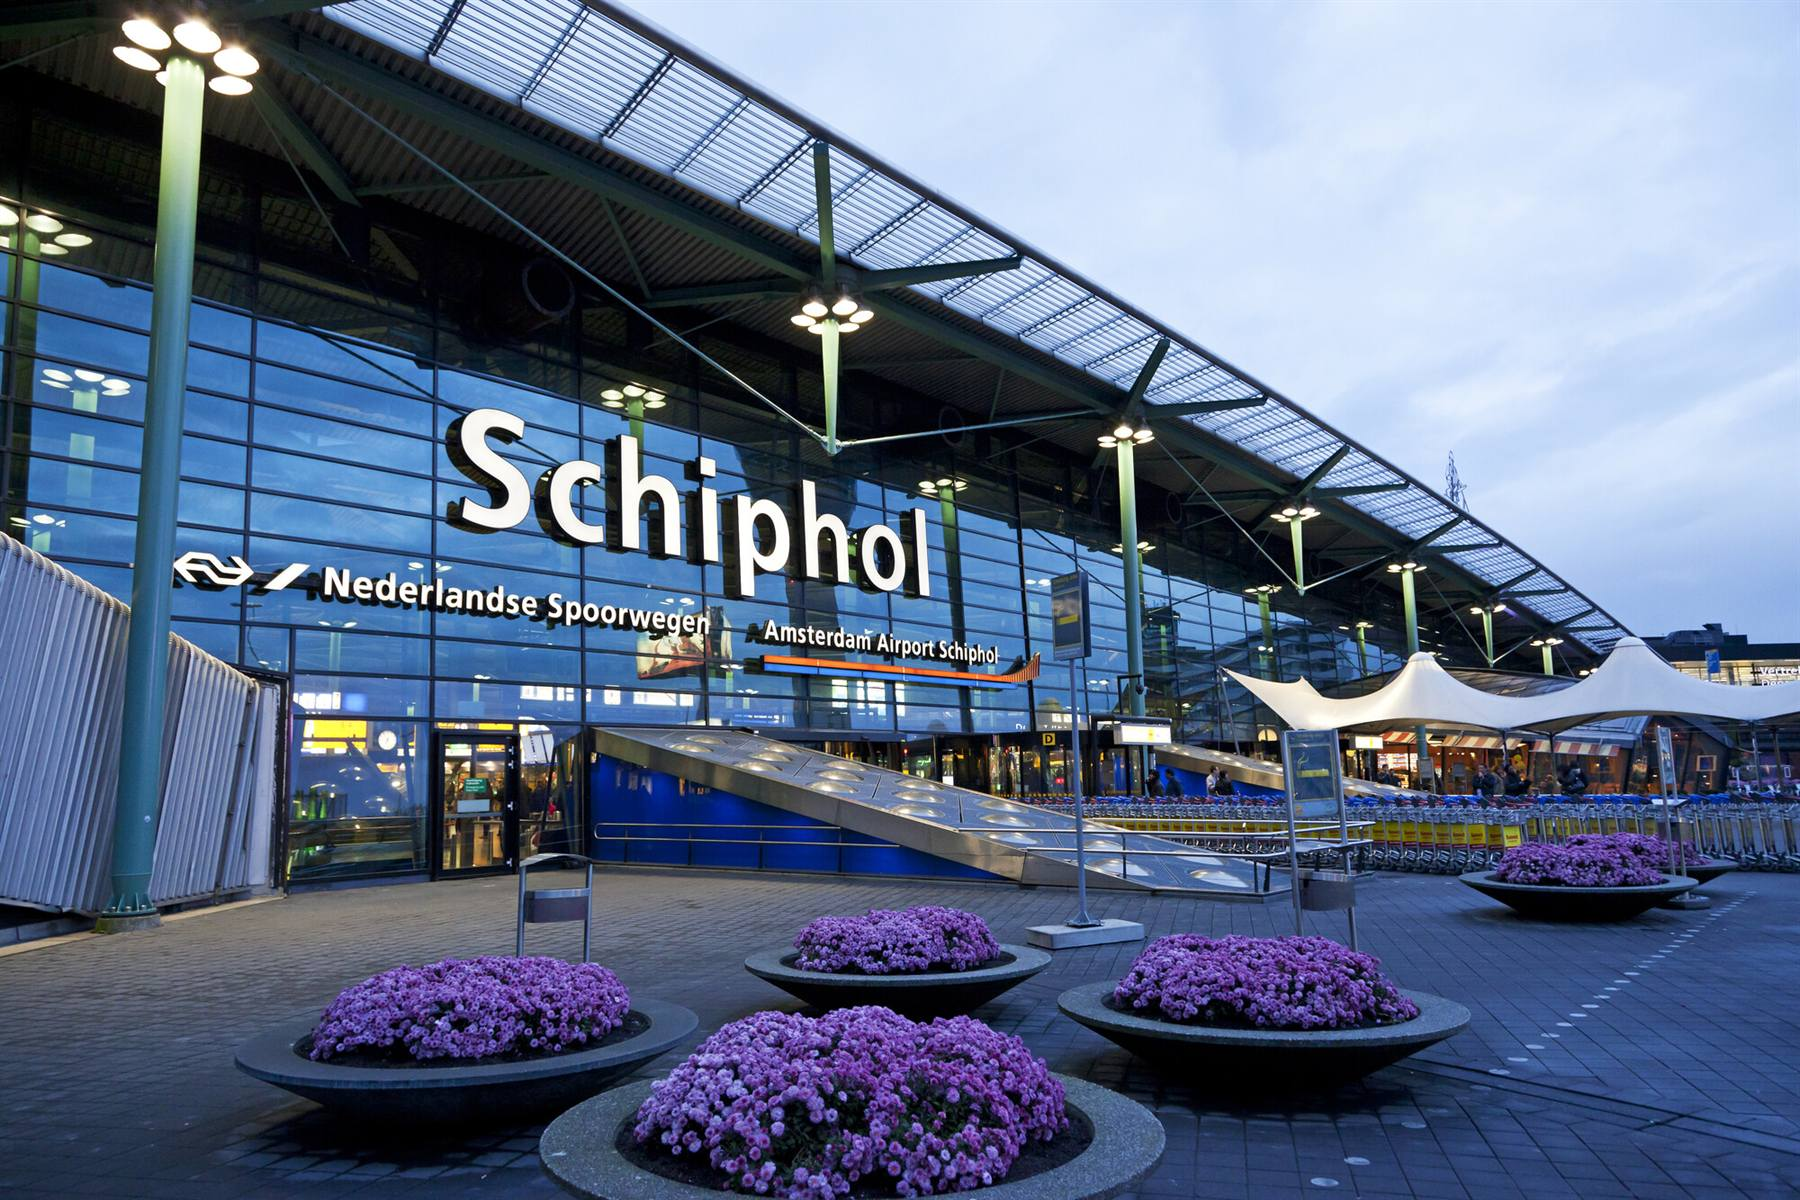
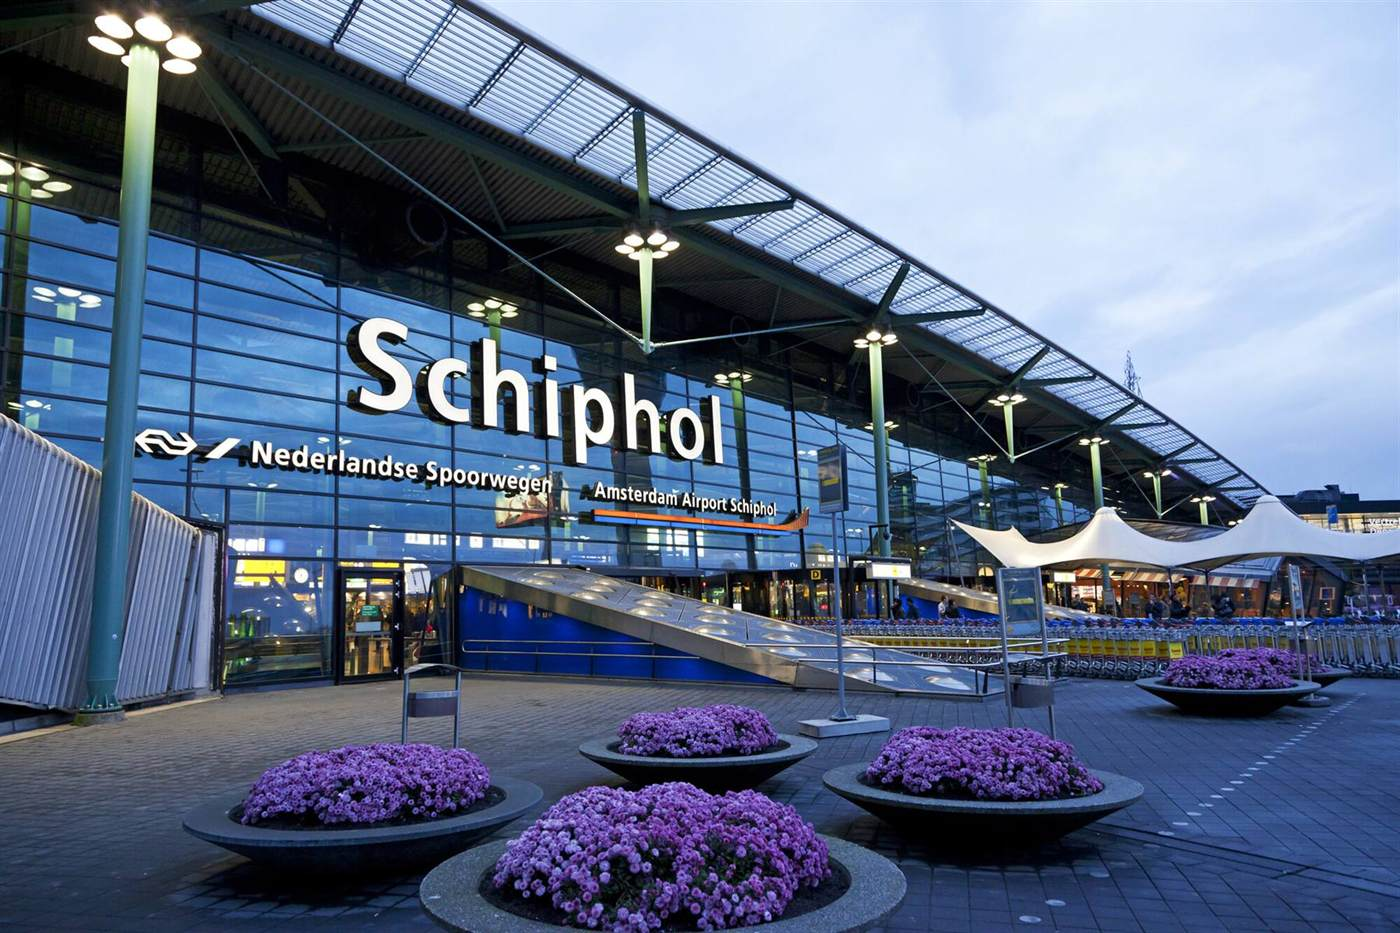
404 page, lighter photos, depth behind the page, steps that fade

Changed region(s): [[0.5221, 0.5284, 0.5529, 0.5595]]

diff --git a/404.html b/404.html
@@ -1,0 +1,230 @@
+<!DOCTYPE html>
+<html lang="en" dir="ltr">
+<head>
+<meta charset="utf-8">
+<meta name="viewport" content="width=device-width, initial-scale=1">
+<title>Page not found — Taxi Service Go Aktaa</title>
+<meta name="description" content="That page does not exist. Book a metered taxi to or from Amsterdam Schiphol.">
+
+
+<!-- Same page in three languages, switched in the browser. -->
+<link rel="alternate" hreflang="en" href="https://taxiservicegoaktaa.nl/">
+<link rel="alternate" hreflang="nl" href="https://taxiservicegoaktaa.nl/">
+<link rel="alternate" hreflang="ar" href="https://taxiservicegoaktaa.nl/">
+<link rel="alternate" hreflang="x-default" href="https://taxiservicegoaktaa.nl/">
+
+<link rel="icon" href="favicon.svg" type="image/svg+xml">
+<link rel="apple-touch-icon" href="favicon.svg">
+<meta name="theme-color" content="#153A8A">
+
+<!-- What a shared link looks like in WhatsApp, Facebook, LinkedIn. -->
+
+
+
+
+
+
+
+
+
+
+
+
+
+
+
+
+<!-- Fonts served from this domain. Loading them from Google would hand
+     every visitor's IP address to Google, which a German court ruled a
+     GDPR breach in 2022, and costs two extra connections per visit. -->
+<link rel="preload" href="fonts/Archivo-700-latin.woff2" as="font" type="font/woff2" crossorigin>
+<link rel="preload" href="fonts/IBMPlexSans-400-latin.woff2" as="font" type="font/woff2" crossorigin>
+<link rel="stylesheet" href="fonts.css">
+<meta name="robots" content="noindex">
+<link rel="stylesheet" href="styles.css">
+
+<!-- Tells Google what this business is, so the phone number and hours
+     can appear in search. Address and rating are deliberately absent:
+     both must be real, and one is not known yet while the other is empty. -->
+
+
+</head>
+<body>
+
+<a class="skip" href="#lost" data-i18n="skip">Skip to booking</a>
+
+<header class="masthead">
+  <div class="wrap masthead__top">
+
+    <!-- LOGO SLOT ────────────────────────────────────────────────
+         Drop your logo file into this folder, then replace the two
+         <span> lines below with one line:
+
+           <img class="brand__logo" src="logo.svg" alt="Taxi Service Go Aktaa">
+
+         SVG is best; a PNG at least 400px wide also works. The CSS
+         already sizes it, so nothing else needs changing.
+         ─────────────────────────────────────────────────────────── -->
+    <a class="brand" href="#top">
+      <svg class="brand__mark" viewBox="0 0 196 82" role="img" aria-label="TTAxi">
+        <title>TTAxi</title>
+        <!-- Roof light: the amber lamp already used across the site, sitting
+             on the two T's the way it sits on a car. -->
+        <path d="M24 18 L29 5 H59 L64 18 Z" fill="#F5B02E"/>
+        <rect x="22" y="16" width="44" height="6" rx="3" fill="#D8961F"/>
+        <!-- Wordmark -->
+        <text class="brand__word" x="8" y="70">TTAxi</text>
+        <!-- Pick-up to drop-off, straight and metered -->
+        <g fill="#153A8A">
+          <circle cx="152" cy="52" r="4.5"/>
+          <path d="M152 52 H178" stroke="#153A8A" stroke-width="3.5" stroke-linecap="round"/>
+          <path d="M177 45 L190 52 L177 59 Z"/>
+        </g>
+      </svg>
+      <span class="brand__sub" data-i18n="brand.sub">Schiphol transfers</span>
+    </a>
+
+    <div class="masthead__reach">
+      <a class="reach" href="tel:+31613331111">
+        <span class="reach__ico" aria-hidden="true">
+          <svg viewBox="0 0 16 16" fill="none" stroke="currentColor" stroke-width="1.5"><path d="M3 2h3l1.5 3.5-2 1.5a8 8 0 0 0 3.5 3.5l1.5-2L14 10v3a1 1 0 0 1-1 1A11 11 0 0 1 2 3a1 1 0 0 1 1-1z"/></svg>
+        </span>
+        <span class="reach__text">
+          <strong dir="ltr">+31 6 1333 1111</strong>
+          <span data-i18n="topbar.call">Call us now</span>
+        </span>
+      </a>
+
+      <span class="masthead__rule" aria-hidden="true"></span>
+
+      <a class="reach reach--mail" href="mailto:taxiservice.goaktaa@gmail.com">
+        <span class="reach__ico" aria-hidden="true">
+          <svg viewBox="0 0 16 16" fill="none" stroke="currentColor" stroke-width="1.5"><rect x="1.5" y="3.5" width="13" height="9" rx="1"/><path d="M1.5 4.5 8 9l6.5-4.5"/></svg>
+        </span>
+        <span class="reach__text">
+          <strong dir="ltr">taxiservice.goaktaa@gmail.com</strong>
+          <span data-i18n="topbar.mail">Mail us now</span>
+        </span>
+      </a>
+    </div>
+
+    <div class="lang" role="group" aria-label="Language" data-i18n-aria="lang.label">
+      <button type="button" class="lang__b" data-lang="en" aria-pressed="true" data-i18n-aria="lang.en">
+        <svg class="flag" viewBox="0 0 60 30" preserveAspectRatio="xMidYMid slice" aria-hidden="true" focusable="false">
+          <clipPath id="ukClip"><path d="M30 15h30v15zv15H0zH0V0zV0h30z"/></clipPath>
+          <rect width="60" height="30" fill="#012169"/>
+          <path d="M0 0l60 30M60 0L0 30" stroke="#fff" stroke-width="6"/>
+          <path d="M0 0l60 30M60 0L0 30" clip-path="url(#ukClip)" stroke="#C8102E" stroke-width="4"/>
+          <path d="M30 0v30M0 15h60" stroke="#fff" stroke-width="10"/>
+          <path d="M30 0v30M0 15h60" stroke="#C8102E" stroke-width="6"/>
+        </svg>
+      </button>
+      <button type="button" class="lang__b" data-lang="nl" aria-pressed="false" data-i18n-aria="lang.nl">
+        <svg class="flag" viewBox="0 0 60 30" preserveAspectRatio="xMidYMid slice" aria-hidden="true" focusable="false">
+          <rect width="60" height="10" fill="#AE1C28"/>
+          <rect y="10" width="60" height="10" fill="#fff"/>
+          <rect y="20" width="60" height="10" fill="#21468B"/>
+        </svg>
+      </button>
+      <!-- The shahada is suggested with plain bars rather than drawn as
+           letterforms: at this size hand-made script would come out garbled,
+           and garbled scripture is worse than an honest simplification. -->
+      <button type="button" class="lang__b" data-lang="ar" aria-pressed="false" data-i18n-aria="lang.ar">
+        <!-- A real flag file: the shahada is calligraphy, and hand-drawing it
+             at this size only ever produced a green smudge. -->
+        <img class="flag" src="flag-sa.png" alt="" width="250" height="250">
+      </button>
+    </div>
+  </div>
+</header>
+
+<nav class="mainnav" id="mainnav" aria-label="Sections">
+  <div class="wrap mainnav__inner">
+    <!-- Phones get a button instead of a row that runs off the screen. -->
+    <button class="navtoggle" id="navToggle" type="button"
+            aria-expanded="false" aria-controls="navLinks" data-i18n-aria="nav.menu">
+      <span class="navtoggle__bars" aria-hidden="true"></span>
+      <span data-i18n="nav.menu">Menu</span>
+    </button>
+    <div class="mainnav__links" id="navLinks">
+      <a href="#top" class="is-here" data-i18n="nav.home">Home</a>
+    <a href="#book" data-i18n="nav.cta">Book a taxi</a>
+    <a href="#routes" data-i18n="nav.routes">Where we drive</a>
+    <a href="#fare" data-i18n="nav.fare">The fare</a>
+    <a href="#reviews" data-i18n="nav.reviews">Reviews</a>
+    <a href="#meet" data-i18n="nav.meet">Meeting point</a>
+    </div>
+  </div>
+</nav>
+
+<main id="lost">
+  <section class="lost">
+    <div class="wrap lost__grid">
+      <div>
+        <p class="eyebrow" data-i18n="lost.eyebrow">Wrong turn</p>
+        <h1 class="lost__title" data-i18n="lost.title">That page isn’t here.</h1>
+        <p class="lost__lede" data-i18n="lost.lede">The address you followed doesn’t exist on this site — most
+          likely a typo, or a link that has moved. The taxi is still available.</p>
+        <div class="lost__actions">
+          <a class="btn btn--primary btn--big" href="/#book" data-i18n="cta.book">Book a taxi</a>
+          <a class="btn btn--ghost" href="tel:+31613331111" data-i18n="cta.call">Call +31 6 1333 1111</a>
+        </div>
+        <ul class="lost__links">
+          <li><a href="/" data-i18n="nav.home">Home</a></li>
+          <li><a href="/#routes" data-i18n="nav.routes">Where we drive</a></li>
+          <li><a href="/#fare" data-i18n="nav.fare">The fare</a></li>
+          <li><a href="/#meet" data-i18n="nav.meet">Meeting point</a></li>
+        </ul>
+      </div>
+
+      <figure class="lost__meter" aria-hidden="true">
+        <div class="meter__bezel" lang="nl" dir="ltr">
+          <div class="meter__head">
+            <span>TAXAMETER</span>
+            <span class="meter__flag">VRIJ</span>
+          </div>
+          <div class="meter__readout">
+            <span class="meter__value">--.--</span>
+            <span class="meter__cur">EUR</span>
+          </div>
+          <dl class="meter__rows">
+            <div><dt>Tarief</dt><dd>404</dd></div>
+            <div><dt>Afstand</dt><dd>0.00 km</dd></div>
+            <div><dt>Tijd</dt><dd>00:00</dd></div>
+          </dl>
+        </div>
+      </figure>
+    </div>
+  </section>
+</main>
+
+<footer class="foot">
+  <div class="wrap foot__grid">
+    <div>
+      <p class="foot__brand">Taxi Service Go Aktaa</p>
+      <p data-i18n-html="foot.tagline">Metered airport transfers, Amsterdam Schiphol.<br>Dispatch open 24 hours.</p>
+    </div>
+    <div>
+      <p class="foot__h" data-i18n="foot.reach">Reach us</p>
+      <p><a href="tel:+31613331111">+31 6 1333 1111</a><br><a href="mailto:taxiservice.goaktaa@gmail.com">taxiservice.goaktaa@gmail.com</a></p>
+    </div>
+    <div>
+      <p class="foot__h" data-i18n="foot.legal">Small print</p>
+      <p class="foot__links"><a href="#legal" data-i18n="foot.privacy">Privacy statement</a> · <a href="#legal" data-i18n="foot.terms">Booking terms</a></p>
+         <p data-i18n-html="foot.small">KIWA taxi permit · KvK 93594909 · TX-keur.<br>
+         Independent taxi operator. Not affiliated with Royal Schiphol Group.</p>
+    </div>
+  </div>
+</footer>
+
+<a class="wa" id="waBtn" href="https://wa.me/31613331111" target="_blank" rel="noopener"
+   aria-label="Message us on WhatsApp" data-i18n-aria="wa.label">
+  <svg viewBox="0 0 32 32" aria-hidden="true" focusable="false">
+    <path fill="currentColor" d="M16.04 3.2c-7.1 0-12.86 5.76-12.86 12.86 0 2.27.6 4.49 1.73 6.44L3.1 28.9l6.56-1.72a12.8 12.8 0 0 0 6.38 1.7h.01c7.09 0 12.85-5.77 12.85-12.86 0-3.44-1.34-6.67-3.77-9.1a12.77 12.77 0 0 0-9.09-3.77zm0 23.2a10.7 10.7 0 0 1-5.45-1.49l-.39-.23-4.05 1.06 1.08-3.95-.26-.4a10.66 10.66 0 0 1-1.64-5.7c0-5.9 4.8-10.7 10.71-10.7 2.86 0 5.55 1.12 7.57 3.14a10.62 10.62 0 0 1 3.13 7.57c0 5.9-4.8 10.7-10.7 10.7zm5.87-8.02c-.32-.16-1.9-.94-2.2-1.05-.29-.1-.5-.16-.72.16-.21.32-.82 1.05-1.01 1.26-.19.22-.37.24-.69.08-.32-.16-1.36-.5-2.59-1.6a9.7 9.7 0 0 1-1.79-2.23c-.19-.32-.02-.5.14-.66.15-.14.32-.37.48-.56.16-.19.21-.32.32-.53.1-.22.05-.4-.03-.56-.08-.16-.72-1.74-.99-2.38-.26-.62-.52-.54-.72-.55h-.61c-.21 0-.56.08-.85.4-.29.32-1.11 1.09-1.11 2.65s1.14 3.08 1.3 3.29c.16.21 2.24 3.42 5.43 4.8.76.32 1.35.52 1.81.67.76.24 1.45.21 2 .13.61-.09 1.9-.78 2.16-1.53.27-.75.27-1.4.19-1.53-.08-.13-.29-.21-.61-.37z"/>
+  </svg>
+</a>
+
+<script src="i18n.js"></script>
+<script src="lost.js"></script>
+</body>
+</html>

diff --git a/styles.css b/styles.css
@@ -1203,3 +1203,53 @@ html { font-size: 106.25%; }                 /* 17px base, all rem sizes follow 
 @media (prefers-reduced-motion: reduce) {
   .reveal-on .reveal { opacity: 1; transform: none; transition: none; }
 }
+
+/* ── Page not found ────────────────────────────────────── */
+.lost { padding-block: clamp(3rem, 8vw, 6rem); }
+.lost__grid {
+  display: grid; gap: clamp(2rem, 5vw, 4rem); align-items: center;
+  grid-template-columns: minmax(0, 1.1fr) minmax(0, .9fr);
+}
+.lost__title { font-size: clamp(2.25rem, 5.5vw, 3.5rem); margin-bottom: 1.25rem; }
+.lost__lede { font-size: 1.0625rem; color: var(--ink-soft); max-width: 44ch; }
+.lost__actions { display: flex; flex-wrap: wrap; gap: .75rem; margin: 2rem 0 2.5rem; }
+.lost__links {
+  list-style: none; margin: 0; padding: 0;
+  display: flex; flex-wrap: wrap; gap: .5rem 1.5rem;
+  border-top: 1px solid var(--line); padding-top: 1.25rem;
+}
+.lost__links a { font-size: .9375rem; }
+.lost__meter { margin: 0; }
+.lost__meter .meter__bezel {
+  background: linear-gradient(#1B2129, #0D1116);
+  border: 1px solid #2C343E; border-radius: 10px;
+  padding: 1.125rem 1.25rem 1rem;
+  box-shadow: 0 26px 60px -30px rgba(11, 14, 18, .9), inset 0 1px 0 rgba(255,255,255,.07);
+}
+@media (max-width: 820px) {
+  .lost__grid { grid-template-columns: 1fr; }
+  .lost__meter { order: -1; max-width: 22rem; }
+}
+
+/* ── Depth ─────────────────────────────────────────────────
+   The page was one flat grey throughout. This is a very quiet vertical
+   lift behind the light sections — enough that the white cards sit on
+   something, not enough to read as a gradient. */
+body {
+  background:
+    radial-gradient(1200px 600px at 50% -10%, #F4F7FA 0%, rgba(244, 247, 250, 0) 60%),
+    var(--concrete);
+  background-attachment: fixed;
+}
+.svcs, .reviews { background: linear-gradient(180deg, rgba(255,255,255,.55), rgba(255,255,255,0) 40%); }
+
+/* Steps of the booking card fade instead of snapping. */
+.pane { animation: paneIn .32s cubic-bezier(.22,.61,.36,1) both; }
+@keyframes paneIn {
+  from { opacity: 0; transform: translateY(6px); }
+  to   { opacity: 1; transform: none; }
+}
+@media (prefers-reduced-motion: reduce) {
+  .pane { animation: none; }
+  body { background-attachment: scroll; }
+}

diff --git a/lost.js b/lost.js
@@ -1,0 +1,36 @@
+/* The 404 page shares the site's chrome but none of its booking logic.
+   app.js expects the booking form to exist and would throw here, so this
+   runs the few things the page actually needs. */
+(function () {
+  'use strict';
+  var t = window.I18N.t;
+
+  /* WhatsApp opens with a line already typed, in the reader's language. */
+  function paintWhatsApp() {
+    var wa = document.getElementById('waBtn');
+    if (!wa) return;
+    wa.href = 'https://wa.me/31613331111?text=' + encodeURIComponent(t('wa.text'));
+  }
+  paintWhatsApp();
+  document.addEventListener('ml:lang', paintWhatsApp);
+
+  /* The menu button, same behaviour as the main page. */
+  var nav = document.getElementById('mainnav');
+  var toggle = document.getElementById('navToggle');
+  var links = document.getElementById('navLinks');
+  if (!nav || !toggle || !links) return;
+
+  function setOpen(on) {
+    nav.classList.toggle('is-open', on);
+    toggle.setAttribute('aria-expanded', String(on));
+  }
+  toggle.addEventListener('click', function () {
+    setOpen(toggle.getAttribute('aria-expanded') !== 'true');
+  });
+  links.addEventListener('click', function (e) { if (e.target.closest('a')) setOpen(false); });
+  document.addEventListener('click', function (e) { if (!nav.contains(e.target)) setOpen(false); });
+  document.addEventListener('keydown', function (e) {
+    if (e.key === 'Escape' && nav.classList.contains('is-open')) { setOpen(false); toggle.focus(); }
+  });
+  window.addEventListener('resize', function () { if (window.innerWidth > 760) setOpen(false); });
+}());

diff --git a/i18n.js b/i18n.js
@@ -19,6 +19,9 @@ window.I18N = (function () {
       'lang.ar': 'العربية',
       'nav.home': 'Home',
       'nav.menu': 'Menu',
+      'lost.eyebrow': 'Wrong turn',
+      'lost.title': 'That page is not here.',
+      'lost.lede': 'The address you followed does not exist on this site — most likely a typo, or a link that has moved. The taxi is still available.',
       'nav.routes': 'Where we drive',
       'nav.reviews': 'Reviews',
       'nav.fare': 'The fare',
@@ -222,6 +225,9 @@ window.I18N = (function () {
       'lang.ar': 'Arabisch',
       'nav.home': 'Home',
       'nav.menu': 'Menu',
+      'lost.eyebrow': 'Verkeerde afslag',
+      'lost.title': 'Die pagina bestaat niet.',
+      'lost.lede': 'Het adres dat je volgde bestaat niet op deze site — waarschijnlijk een typefout of een link die verhuisd is. De taxi rijdt gewoon.',
       'nav.routes': 'Waar we rijden',
       'nav.reviews': 'Beoordelingen',
       'nav.fare': 'Het tarief',
@@ -425,6 +431,9 @@ window.I18N = (function () {
       'lang.ar': 'العربية',
       'nav.home': 'الرئيسية',
       'nav.menu': 'القائمة',
+      'lost.eyebrow': 'منعطف خاطئ',
+      'lost.title': 'هذه الصفحة غير موجودة.',
+      'lost.lede': 'العنوان الذي فتحته غير موجود على هذا الموقع — على الأرجح خطأ إملائي أو رابط تغيّر. أما التاكسي فمتاح كالعادة.',
       'nav.routes': 'إلى أين نقود',
       'nav.reviews': 'التقييمات',
       'nav.fare': 'الأجرة',

diff --git a/index.html b/index.html
@@ -270,7 +270,7 @@
            the meter stands alone, exactly as before. -->
       <figure class="meter shot" id="heroShot">
         <div class="shot__frame">
-        <img class="shot__photo" src="car.jpg" width="1200" height="1600" fetchpriority="high" decoding="async" alt="" data-i18n-alt="hero.photo.alt" hidden>
+        <img class="shot__photo" src="car.jpg" width="1000" height="1333" fetchpriority="high" decoding="async" alt="" data-i18n-alt="hero.photo.alt" hidden>
         <div class="meter__bezel" lang="nl" dir="ltr">
           <div class="meter__head">
             <span>TAXAMETER</span>
@@ -291,7 +291,7 @@
     </div>
 
     <div class="hero__art" aria-hidden="true">
-      <img class="hero__photo" src="schiphol.jpg" width="1800" height="1200" loading="lazy" decoding="async" alt="">
+      <img class="hero__photo" src="schiphol.jpg" width="1400" height="933" loading="lazy" decoding="async" alt="">
       <svg class="hero__draw" viewBox="0 0 1200 300" preserveAspectRatio="xMidYMax slice" role="presentation" focusable="false">
         <defs>
           <linearGradient id="sky" x1="0" y1="0" x2="0" y2="1">
